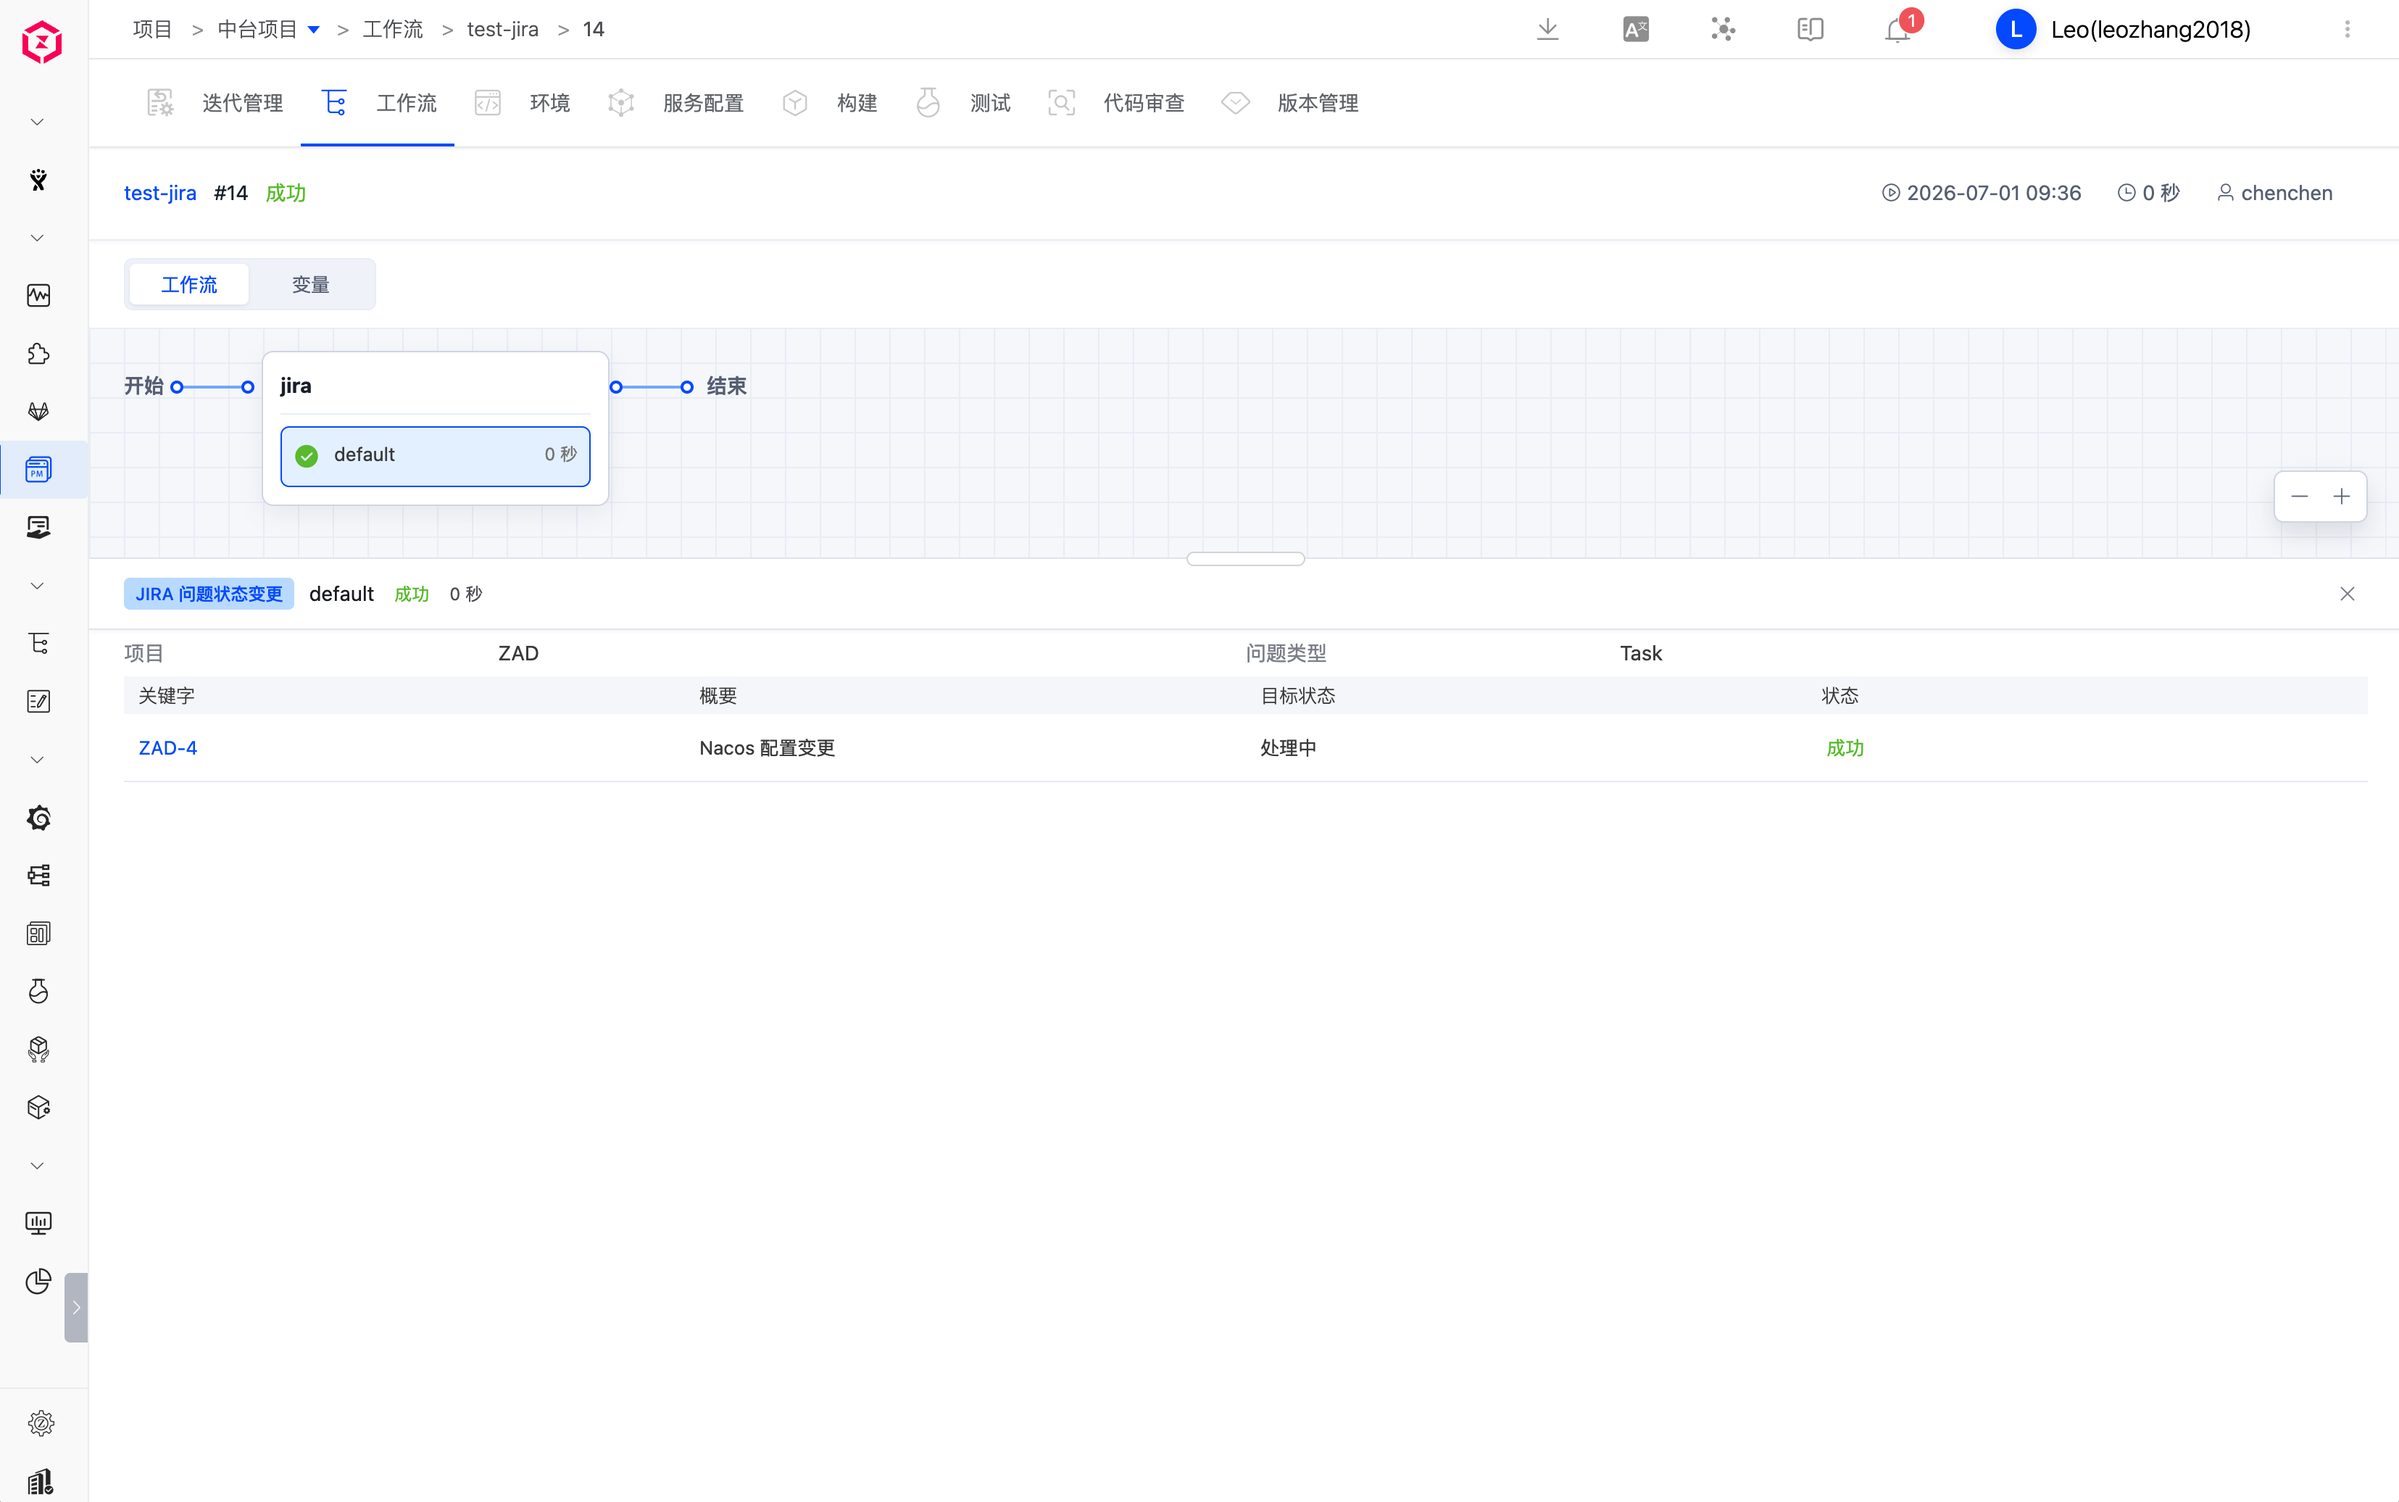
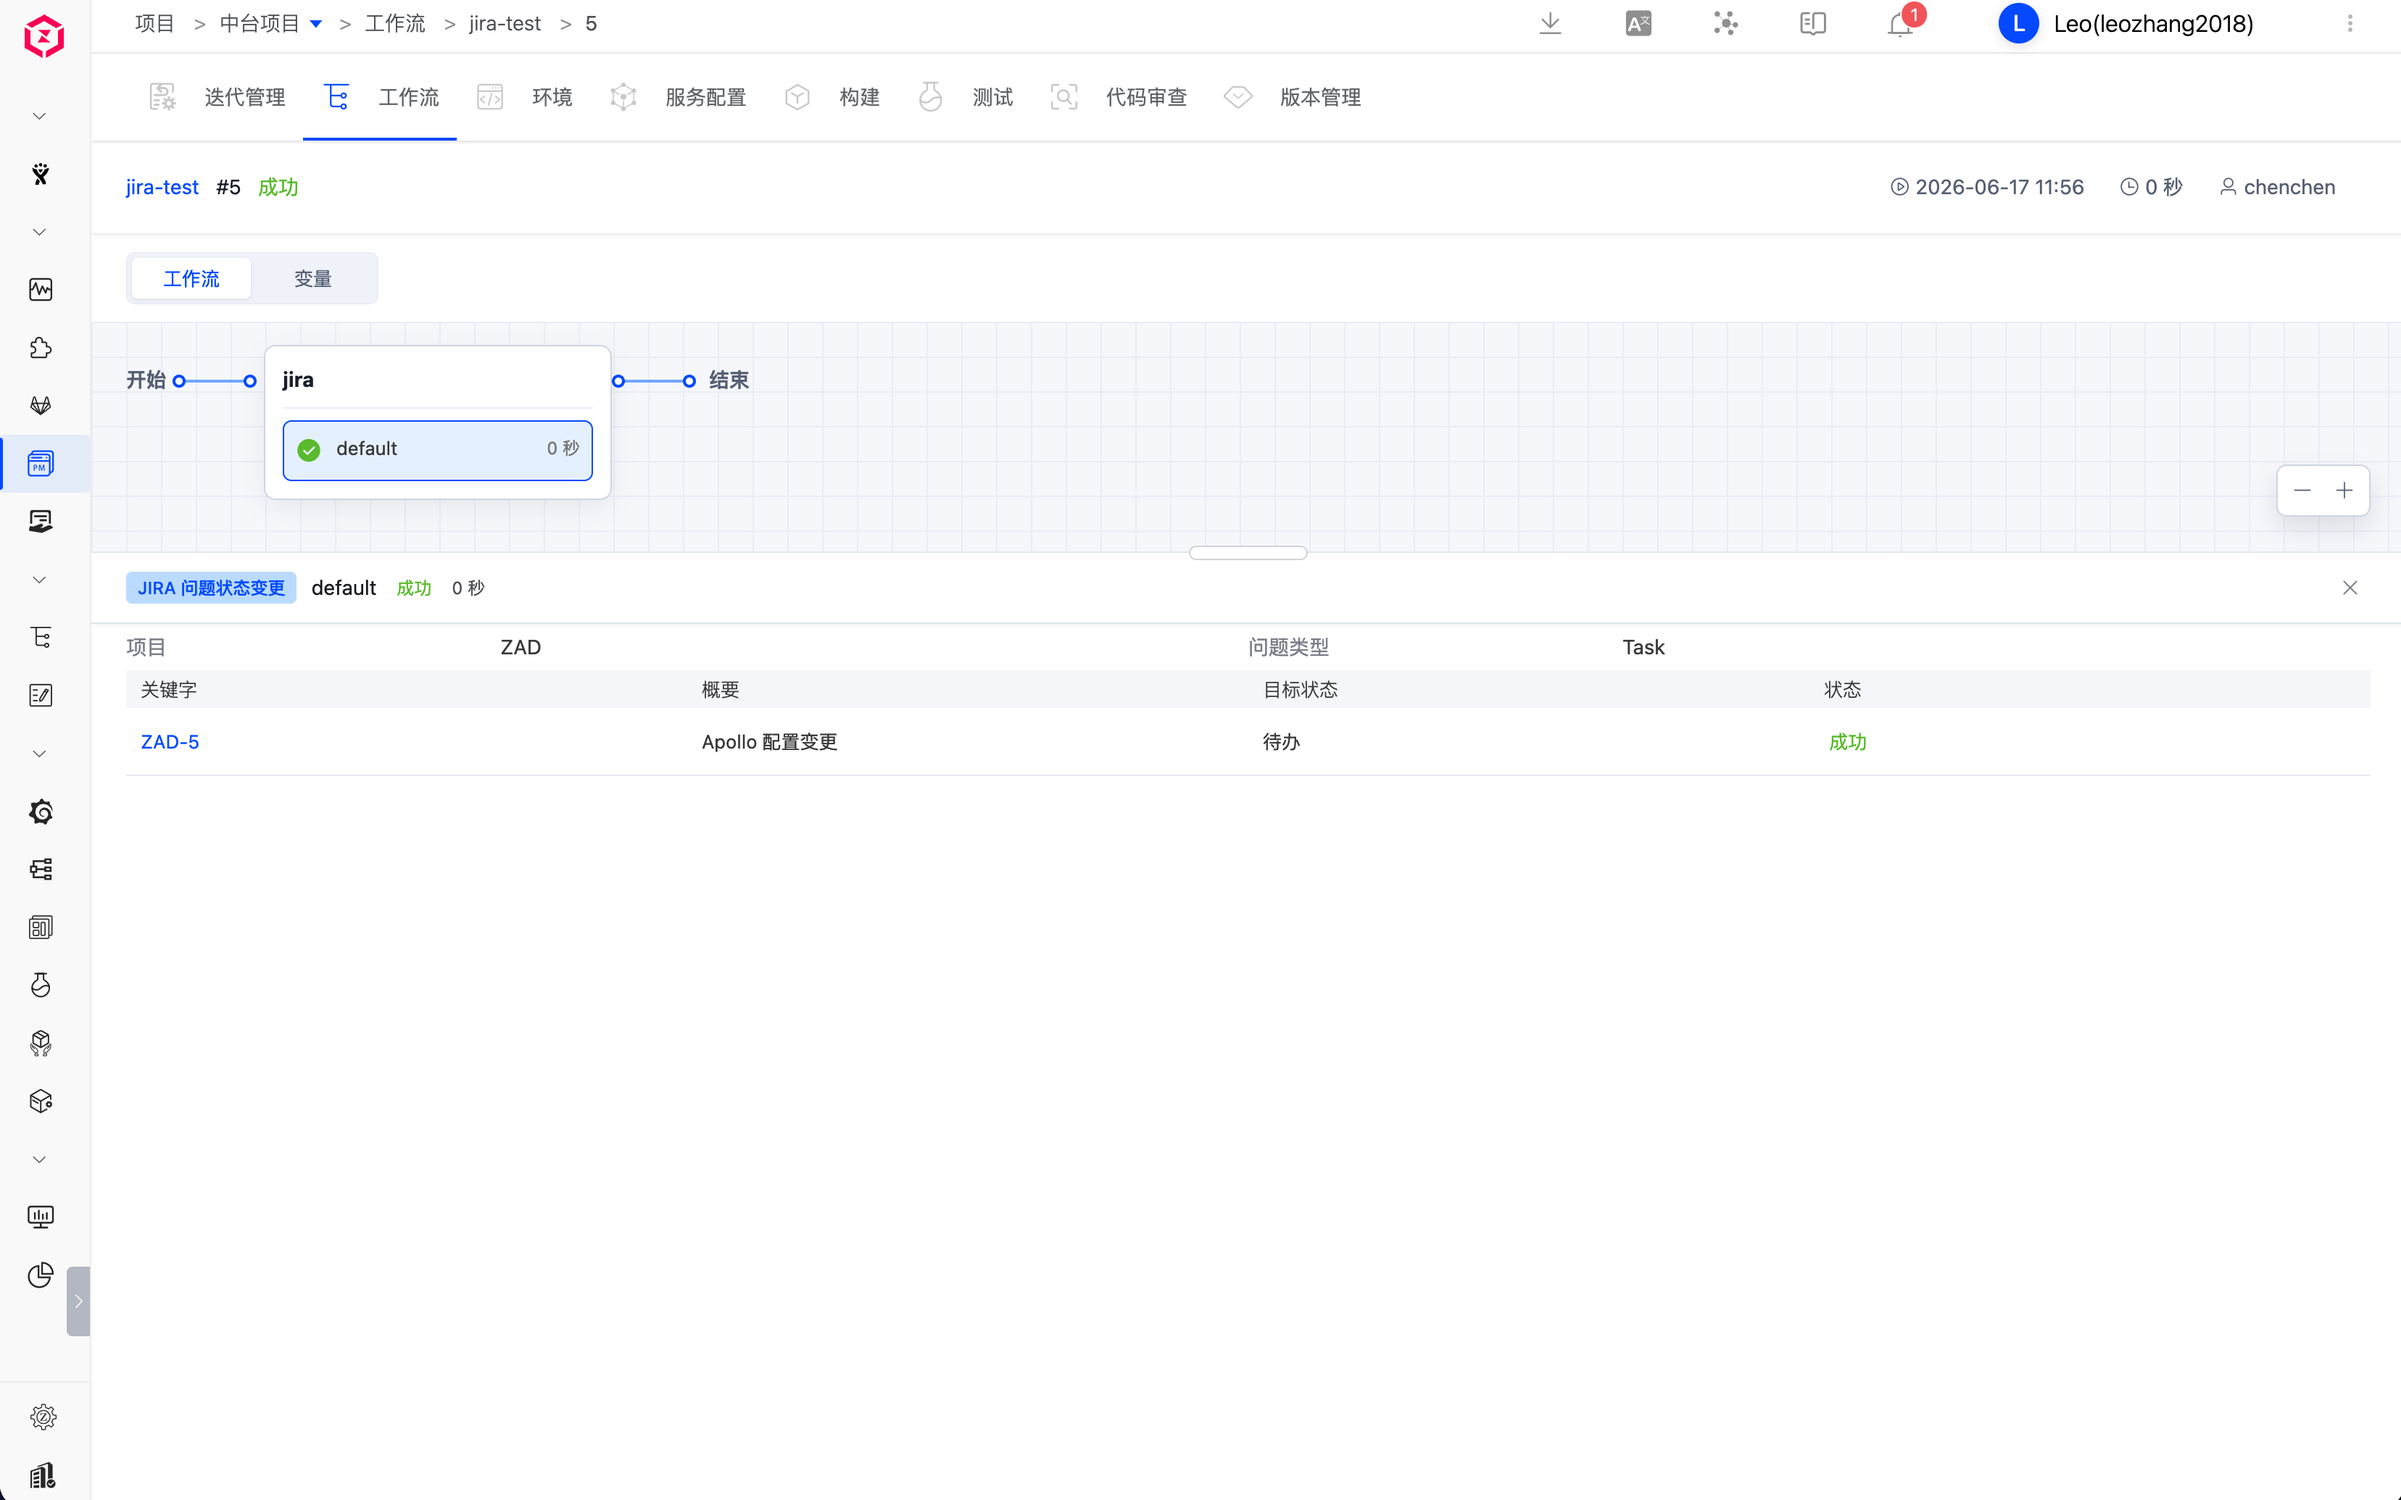
feat: add jira issue status image to workflow jobs documentation.

diff --git a/cn/Zadig/05.系统功能模块/02.工作流/02.workflow-jobs.md b/cn/Zadig/05.系统功能模块/02.工作流/02.workflow-jobs.md
@@ -254,6 +254,8 @@ permalink: /cn/Zadig v5.0/project/workflow-jobs/
 
 ![jira_task_status](./_images/workflow-jobs/jira_task_status.png)
 
+![jira_issue_status](./_images/workflow-jobs/jira_issue_status.png)
+
 参数说明：
 - `任务名称`：在同一个工作流中，任务名称需唯一。
 - `Jira 项目`：选择 Jira 空间下对应的项目。

diff --git a/en/Zadig/05.Features/02.Workflow/02.workflow-jobs.md b/en/Zadig/05.Features/02.Workflow/02.workflow-jobs.md
@@ -254,6 +254,7 @@ After completing a certain stage of the workflow, the status of the Issue in the
 
 ![jira_task_status](./_images/workflow-jobs/jira_task_status.png)
 
+![jira_issue_status](./_images/workflow-jobs/jira_issue_status.png)
 
 Parameter Description:
 - `Task Name`: In the same workflow, the task name must be unique.
